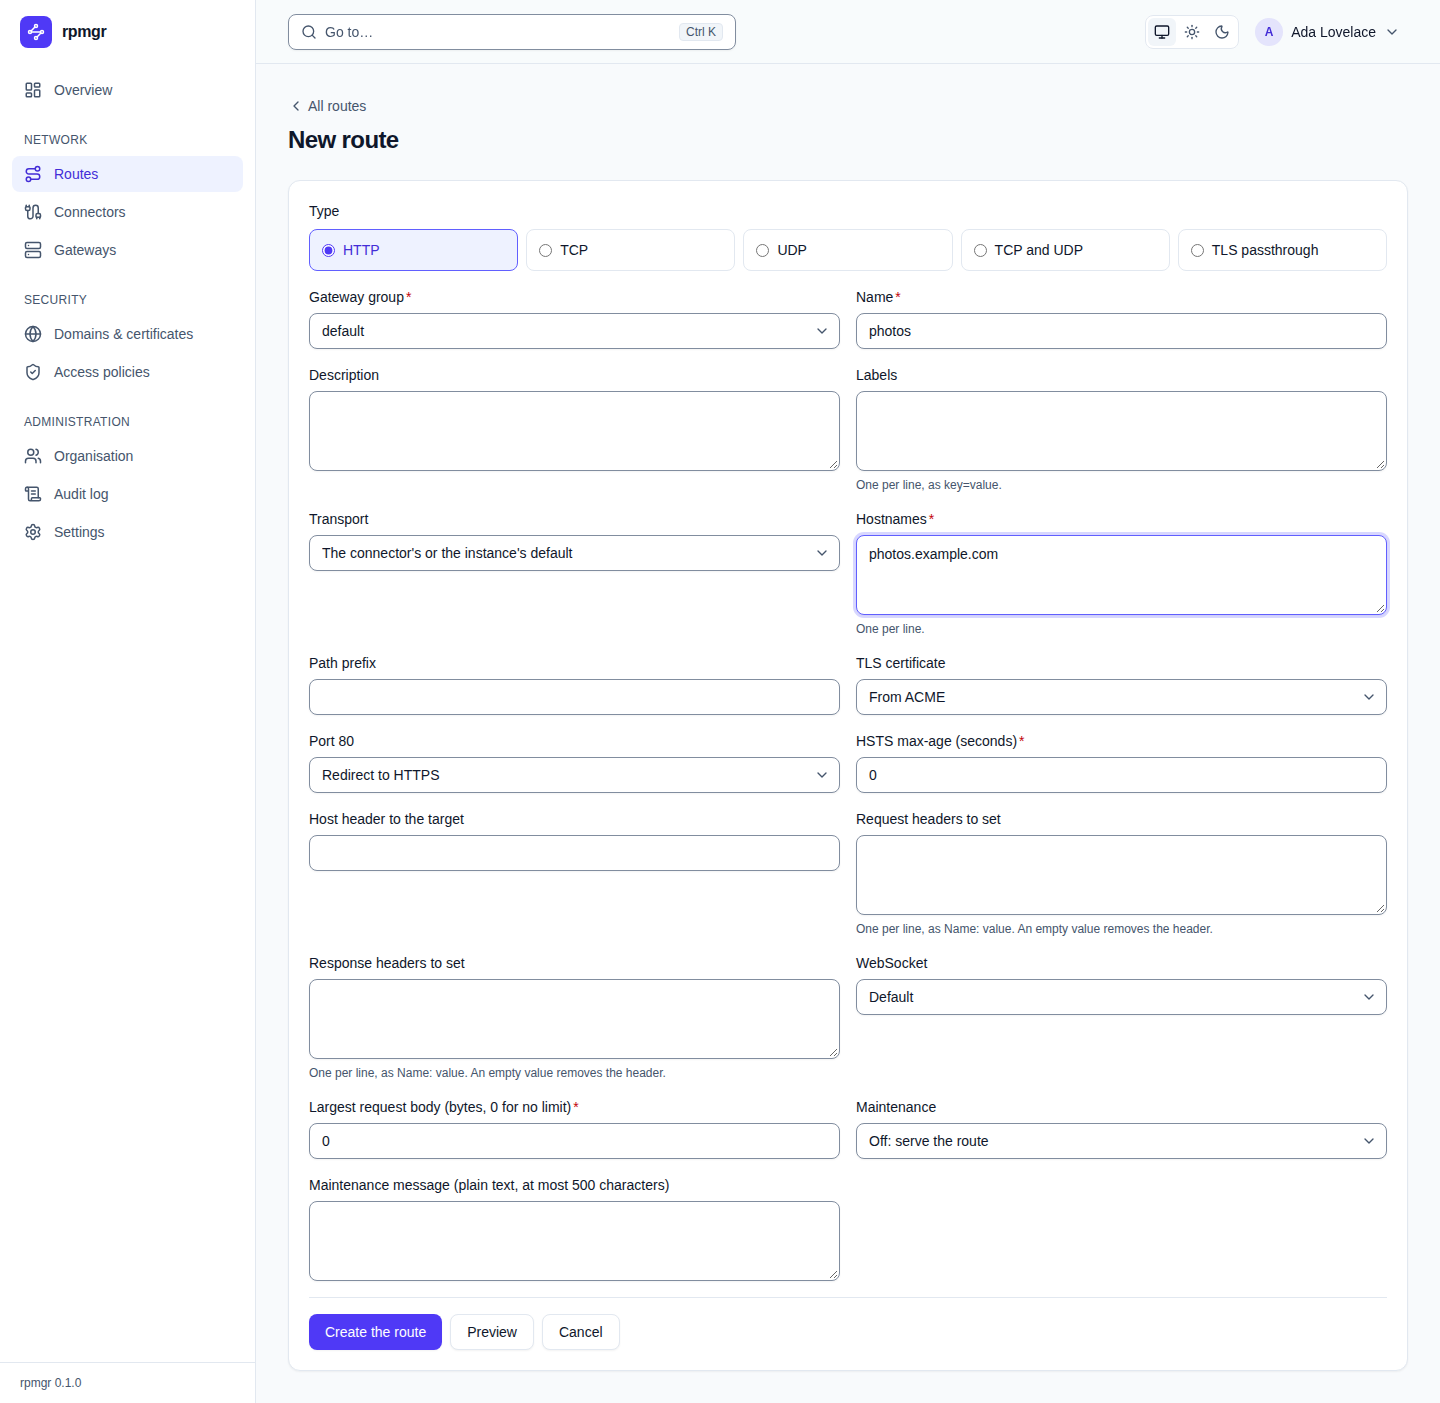
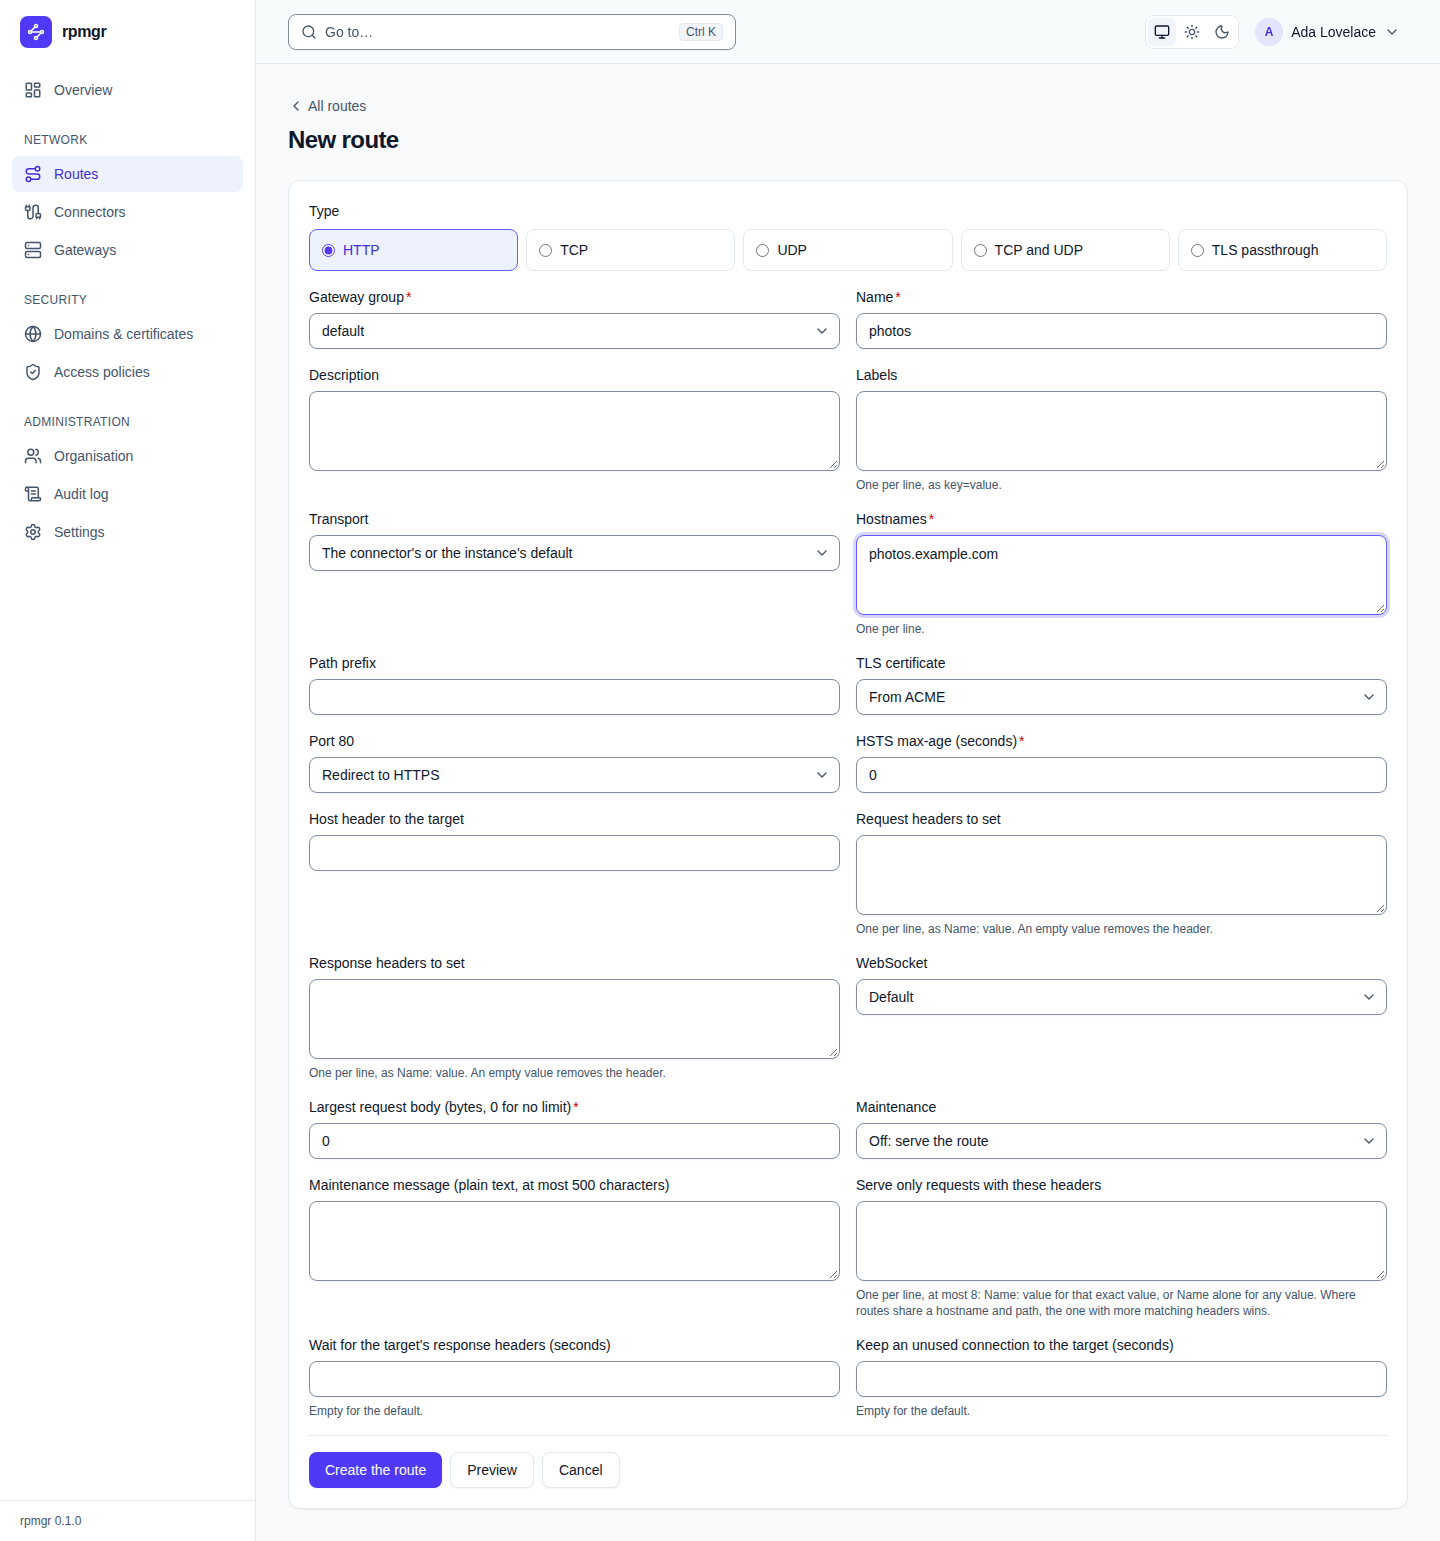
feat(web): edit header matches and timeouts of routes
Slice 3.13 of P2-M03, first part: the route form edits an http route's
header matches (3.3), one per line as `Name: value` or `Name` alone, and
its own upstream response-header and idle timeouts (3.4), empty for the
gateway's. The form checks each match line, their number and repeated
names before sending, protovalidate checks the timeouts' bounds, and
what the server refuses shows below the fields. The limits section
follows once slice 3.10's API has merged.

Refs #628

diff --git a/web/src/pages/route-edit.test.tsx b/web/src/pages/route-edit.test.tsx
@@ -30,7 +30,9 @@ const routes: Record<string, Route> = {
   http: create(RouteSchema, { ...common, spec: { case: "http", value: {
     hostnames: ["wiki.example.com", "w.example.com"], pathPrefix: "/docs", tlsMode: TLSMode.TLS_MODE_CERTIFICATE, certificateId: "crt_1",
     port80: Port80Mode.SERVE, hstsMaxAgeSeconds: 3600, hostHeader: "internal", requestHeadersSet: { "X-A": "1" },
-    responseHeadersSet: { "X-B": "a: b" }, websocket: false, maxBodyBytes: 1024n, maintenance: true, maintenanceMessage: "Back at 18:00.\nSorry." } } }),
+    responseHeadersSet: { "X-B": "a: b" }, websocket: false, maxBodyBytes: 1024n, maintenance: true, maintenanceMessage: "Back at 18:00.\nSorry.",
+    headerMatches: [{ name: "X-Env", match: { case: "exact", value: "beta" } }, { name: "X-Tenant", match: { case: "present", value: true } }],
+    upstreamResponseHeaderTimeoutSeconds: 300, upstreamIdleTimeoutSeconds: 30 } } }),
   tcp: create(RouteSchema, { ...common, spec: { case: "tcp", value: { port: 25432, idleTimeoutSeconds: 600 } } }),
   udp: create(RouteSchema, { ...common, spec: { case: "udp", value: { port: 53, flowIdleTimeoutSeconds: 30 } } }),
   tcpUdp: create(RouteSchema, { ...common, spec: { case: "tcpUdp", value: { port: 5353, idleTimeoutSeconds: 600, flowIdleTimeoutSeconds: 30 } } }),
@@ -123,6 +125,50 @@ describe("RouteEdit", () => {
     const spec = updates[0]!.route?.spec;
     expect(spec?.case === "tcpUdp" && [spec.value.port, spec.value.idleTimeoutSeconds, spec.value.flowIdleTimeoutSeconds]).toEqual([5354, 600, undefined]);
     expect(updates[0]!.updateMask?.paths).toEqual(expect.arrayContaining(["tcp_udp.port", "tcp_udp.flow_idle_timeout_seconds"]));
+  });
+
+  it("edits an http route's header matches and its own upstream timeouts", async () => {
+    const updates = edit(routes.http!);
+    const matches = await screen.findByLabelText("Serve only requests with these headers");
+    expect((matches as HTMLTextAreaElement).value).toBe("X-Env: beta\nX-Tenant");
+    expect((screen.getByLabelText("Wait for the target's response headers (seconds)") as HTMLInputElement).value).toBe("300");
+    fireEvent.change(matches, { target: { value: "x-canary: 1\n\n  X-Region  " } });
+    fireEvent.change(screen.getByLabelText("Wait for the target's response headers (seconds)"), { target: { value: "" } });
+    fireEvent.change(screen.getByLabelText("Keep an unused connection to the target (seconds)"), { target: { value: "3600" } });
+    save();
+    await waitFor(() => expect(updates).toHaveLength(1));
+    const spec = updates[0]!.route?.spec;
+    expect(spec?.case === "http" && [spec.value.headerMatches.map((m) => [m.name, m.match.case, m.match.value]),
+      spec.value.upstreamResponseHeaderTimeoutSeconds, spec.value.upstreamIdleTimeoutSeconds]).toEqual(
+      [[["x-canary", "exact", "1"], ["X-Region", "present", true]], 0, 3600]);
+    expect(updates[0]!.updateMask?.paths).toEqual(expect.arrayContaining(["http.header_matches",
+      "http.upstream_response_header_timeout_seconds", "http.upstream_idle_timeout_seconds"]));
+  });
+
+  it.each([
+    ["a match without a value", "Serve only requests with these headers", "X-Env:", "Line 1: give X-Env a value after the colon, or write the name alone to match any value."],
+    ["a match with a bad name", "Serve only requests with these headers", "X Env: a", "Line 1: “X Env” is not a header name. A name has letters, digits and the characters !#$%&'*+-.^_`|~ only."],
+    ["a header matched twice", "Serve only requests with these headers", "X-Env: a\nx-env", "Line 2: x-env is on line 1 already."],
+    ["nine matches", "Serve only requests with these headers", Array.from({ length: 9 }, (_, i) => `X-H${i}`).join("\n"), "A route matches at most 8 headers."],
+    ["a timeout that is no whole number", "Wait for the target's response headers (seconds)", "1.5", "Enter a whole number."],
+    ["a timeout above an hour", "Keep an unused connection to the target (seconds)", "3601", /less than or equal to 3600/],
+  ])("refuses %s before sending", async (_, label, value, message) => {
+    const updates = edit(routes.http!);
+    const field = await screen.findByLabelText(label);
+    fireEvent.change(field, { target: { value } });
+    save();
+    await waitFor(() => expect(field.getAttribute("aria-invalid")).toBe("true"));
+    expect(screen.getByText(message)).toBeTruthy();
+    expect(updates).toEqual([]);
+  });
+
+  it("shows what the server refuses in header matches", async () => {
+    edit(routes.http!, () => {
+      throw new ConnectError("headermatch: invalid header matches: header Host cannot be matched", Code.InvalidArgument);
+    });
+    fireEvent.change(await screen.findByLabelText("Serve only requests with these headers"), { target: { value: "Host: a.example.com" } });
+    save();
+    expect(await screen.findByText("headermatch: invalid header matches: header Host cannot be matched")).toBeTruthy();
   });
 
   it("checks the API's rules before sending", async () => {

diff --git a/web/src/route-form/fields.ts b/web/src/route-form/fields.ts
@@ -1,8 +1,8 @@
 // SPDX-License-Identifier: Apache-2.0
 
-import { clone } from "@bufbuild/protobuf";
+import { clone, create } from "@bufbuild/protobuf";
 import { DataTransport } from "@/gen/rpmgr/v1/connector_pb";
-import { Port80Mode, RouteSchema, TLSMode, type Route } from "@/gen/rpmgr/v1/route_pb";
+import { HeaderMatchSchema, Port80Mode, RouteSchema, TLSMode, type HeaderMatch, type Route } from "@/gen/rpmgr/v1/route_pb";
 
 // A field of the route form: its form key, the route path the API's update mask names
 // (internal/apisvc routeFields), how it is edited, and how it reads from and writes to a route.
@@ -22,15 +22,20 @@ export interface RouteField {
 // name is what a label key may be (route.proto) or a header name (a token of RFC 9110, which the
 // server checks too); a header's name is the same whatever its case.
 export interface PairFormat {
-  kind: "labels" | "headers";
+  kind: "labels" | "headers" | "matches";
   sep: string;
   shown: string;
   name: RegExp;
   folds: boolean;
+  bare?: boolean; // a line of a name alone is allowed: a header match by presence
+  max?: number; // the most lines
 }
 
 const labelFormat: PairFormat = { kind: "labels", sep: "=", shown: "=", name: /^[a-z0-9]([a-z0-9._-]{0,61}[a-z0-9])?$/, folds: false };
 const headerFormat: PairFormat = { kind: "headers", sep: ":", shown: ": ", name: /^[!#$%&'*+.^_`|~0-9A-Za-z-]+$/, folds: true };
+// A header match is Name: value for an exact value, or Name alone for presence (docs/03-connections.md,
+// "HTTP routes"); a route has at most 8.
+const matchFormat: PairFormat = { ...headerFormat, kind: "matches", bare: true, max: 8 };
 
 type Spec = Route["spec"];
 type SpecOf<C extends NonNullable<Spec["case"]>> = Extract<Spec, { case: C }>["value"];
@@ -60,6 +65,17 @@ function spec<C extends NonNullable<Spec["case"]>>(c: C, field: Omit<RouteField,
     },
   };
 }
+
+// matchesOf reads the lines of header matches; showMatches writes them, one per line.
+const matchesOf = (v: string): HeaderMatch[] =>
+  lines(v).map((l) => {
+    const pair = split(l, matchFormat);
+    return create(HeaderMatchSchema, pair === undefined
+      ? { name: l, match: { case: "present", value: true } }
+      : { name: pair[0], match: { case: "exact", value: pair[1] } });
+  });
+const showMatches = (ms: HeaderMatch[]) =>
+  ms.map((m) => (m.match.case === "exact" ? `${m.name}${matchFormat.shown}${m.match.value}` : m.name)).join("\n");
 
 const num = (v: string) => (/^\d+$/.test(v.trim()) ? Number(v.trim()) : Number.NaN);
 const optional = (v: string) => (v.trim() === "" ? undefined : num(v));
@@ -104,6 +120,15 @@ const http: RouteField[] = [
     get: (s) => String(s.maintenance), set: (s, v) => (s.maintenance = v === "true") }),
   spec("http", { key: "maintenanceMessage", path: "http.maintenance_message", kind: "longtext", get: (s) => s.maintenanceMessage,
     set: (s, v) => (s.maintenanceMessage = v) }),
+  // Header matches and the route's own upstream timeouts (Phase 2); empty is none, or the gateway's.
+  spec("http", { key: "headerMatches", path: "http.header_matches", kind: "pairs", format: matchFormat,
+    get: (s) => showMatches(s.headerMatches), set: (s, v) => (s.headerMatches = matchesOf(v)) }),
+  spec("http", { key: "upstreamHeaderTimeout", path: "http.upstream_response_header_timeout_seconds", kind: "optionalNumber",
+    get: (s) => (s.upstreamResponseHeaderTimeoutSeconds === 0 ? "" : String(s.upstreamResponseHeaderTimeoutSeconds)),
+    set: (s, v) => (s.upstreamResponseHeaderTimeoutSeconds = optional(v) ?? 0) }),
+  spec("http", { key: "upstreamIdleTimeout", path: "http.upstream_idle_timeout_seconds", kind: "optionalNumber",
+    get: (s) => (s.upstreamIdleTimeoutSeconds === 0 ? "" : String(s.upstreamIdleTimeoutSeconds)),
+    set: (s, v) => (s.upstreamIdleTimeoutSeconds = optional(v) ?? 0) }),
 ];
 
 const portField = <C extends "tcp" | "udp" | "tcpUdp">(c: C, path: string) =>
@@ -166,16 +191,22 @@ export interface Problem {
 export function lineProblem(v: string, f: PairFormat): Problem | undefined {
   const seen = new Map<string, number>();
   const all = v.split("\n");
+  if (f.max !== undefined && lines(v).length > f.max) {
+    return { text: `lines.${f.kind}.max`, values: { max: f.max } };
+  }
   for (let i = 0; i < all.length; i++) {
     const text = all[i]!.trim();
     if (text === "") {
       continue;
     }
-    const line = i + 1, pair = split(text, f);
+    const line = i + 1, pair = split(text, f) ?? (f.bare ? [text, undefined] : undefined);
     if (pair === undefined) {
       return { text: `lines.${f.kind}.separator`, values: { line } };
     }
-    const [name] = pair;
+    const [name, value] = pair;
+    if (f.bare && value === "") {
+      return { text: `lines.${f.kind}.value`, values: { line, name } };
+    }
     if (!f.name.test(name)) {
       return { text: `lines.${f.kind}.name`, values: { line, name } };
     }

diff --git a/web/e2e/sign-in.spec.ts b/web/e2e/sign-in.spec.ts
@@ -158,6 +158,15 @@ test("signs in, creates an API token with a step-up, sets up an authenticator an
   await page.goto("/routes/new");
   await expect(page.locator(".required-mark")).toHaveText(["Gateway group", "Name", "Hostnames", "HSTS max-age (seconds)", "Largest request body (bytes, 0 for no limit)"]);
   expect(await unmarked(page)).toEqual([]);
+  // Header matches and the route's own timeouts: a line not in its format is refused in the form,
+  // on its field, before anything is sent, and the form with its errors stays accessible.
+  await page.getByLabel("Serve only requests with these headers").fill("X-Env: beta\nX Env: a");
+  await page.getByLabel("Wait for the target's response headers (seconds)").fill("300");
+  await page.getByRole("button", { name: "Create the route" }).click();
+  await expect(page.getByText("Line 2: “X Env” is not a header name.", { exact: false })).toBeVisible();
+  await expect(page.getByLabel("Serve only requests with these headers")).toHaveAttribute("aria-invalid", "true");
+  await expectAccessible(page);
+  await page.goto("/routes/new");
   const top = async (label: string) => (await page.getByLabel(label, { exact: true }).boundingBox())!.y;
   expect(await top("Name")).toBe(await top("Gateway group"));
   await page.setViewportSize({ width: 390, height: desktop.height });

diff --git a/docs/guide/routes/http.md b/docs/guide/routes/http.md
@@ -116,7 +116,7 @@ type and its gateway group never change.
 | Data-session transport | **Transport** | `--transport auto\|quic\|h2` | the connector's |
 | Hostnames, 1 to 100 | **Hostnames**, one per line | `--hostname`, repeated | required |
 | Path prefix | **Path prefix** | `--path-prefix` | every path |
-| Header matches | not in the web UI yet | `--match-header Name=value` or `--match-header Name`, repeated | none |
+| Header matches | **Serve only requests with these headers**, `Name: value` or `Name` per line | `--match-header Name=value` or `--match-header Name`, repeated | none |
 | Certificate source | **TLS certificate**: **From ACME** or **Uploaded** | `--tls-mode acme\|certificate` | ACME |
 | Uploaded certificate | **Uploaded certificate**, one that covers every hostname | `--certificate <id>` | none |
 | Port 80 | **Port 80**: **Redirect to HTTPS**, **Serve the route**, **Closed** | `--port80 redirect\|serve\|off` | redirect |
@@ -126,8 +126,8 @@ type and its gateway group never change.
 | Response headers to set | **Response headers to set**, `Name: value` per line | `--set-response-header Name=value`, repeated | none |
 | WebSocket upgrades | **WebSocket**: **Default**, **On**, **Off** | `--websocket=false` | on |
 | Largest request body | **Largest request body (bytes, 0 for no limit)** | `--max-body <bytes>` | 0, no limit |
-| Wait for the target's response headers | not in the web UI yet | `--upstream-header-timeout <duration>`, such as `5m` | the gateway's |
-| Keep an unused connection to the target | not in the web UI yet | `--upstream-idle-timeout <duration>` | the gateway's |
+| Wait for the target's response headers | **Wait for the target's response headers (seconds)** | `--upstream-header-timeout <duration>`, such as `5m` | the gateway's |
+| Keep an unused connection to the target | **Keep an unused connection to the target (seconds)** | `--upstream-idle-timeout <duration>` | the gateway's |
 | Maintenance | **Maintenance** | `--maintenance`, `--maintenance=false` | off |
 | Maintenance message | **Maintenance message** | `--maintenance-message` | empty |
 | Access policies | **Access policies** card on the route's page | `--policy`, repeated | none |

diff --git a/docs/guide/web-ui/routes.md b/docs/guide/web-ui/routes.md
@@ -81,11 +81,16 @@ An **HTTP** route adds ([HTTP routes](../routes/http.md)):
 | **Largest request body (bytes, 0 for no limit)** | The largest request body the gateway lets through |
 | **Maintenance** | **Off: serve the route** or **On: show the maintenance page** ([D88](../../14-open-decisions.md#engineering)) |
 | **Maintenance message (plain text, at most 500 characters)** | The text the maintenance page shows |
+| **Serve only requests with these headers** | Header matches, one per line: `Name: value` for that exact value, or `Name` alone for any value. Where routes share a hostname and path prefix, the one with more matching headers wins ([Header matches](../routes/http.md#header-matches)). Empty matches every request |
+| **Wait for the target's response headers (seconds)**, **Keep an unused connection to the target (seconds)** | The route's own upstream timeouts; empty keeps the gateway's ([Timeouts](../routes/http.md#timeouts)) |
 
-Before it sends a route, the form checks each line of **Labels**, **Request headers to set** and
-**Response headers to set**. It names the first line without `=` or `:`, with a label key or header
-name the API refuses, or with a key or name an earlier line has, such as `Line 2: write a label as
-key=value.`; a header name is the same whatever its case.
+Before it sends a route, the form checks each line of **Labels**, **Request headers to set**,
+**Response headers to set** and **Serve only requests with these headers**. It names the first line
+without `=` or `:`, with a label key or header name the API refuses, with a header match whose
+colon has no value after it, or with a key or name an earlier line has, such as `Line 2: write a
+label as key=value.`; a header name is the same whatever its case. It also says when there are more
+header matches than a route may have, and refuses a timeout above the API's bound. What the server
+refuses, such as a match on `Host`, shows below the fields.
 
 A **TCP** route adds **Public port** and **Idle timeout (seconds)**; a **UDP** route **Public
 port** and **Flow idle timeout (seconds)**; a **TCP and UDP** route **Public port**, **TCP idle

diff --git a/docs/09-web-ui.md b/docs/09-web-ui.md
@@ -352,11 +352,13 @@ flowchart LR
     hostname the form has, by its names, ID and expiry; the form stores its ID. The choice shows
     only while the route uses an uploaded certificate. A certificate chosen before stays offered,
     marked if it does not cover the hostnames, so the form never changes it unasked.
-  - **Phase 2 sections** ([03](03-connections.md#http-routes)), each folded until used:
-    - **Header matches** (http): up to eight rows of a header name with "equals" and a value, or
-      "is present"; a hint explains that more matches win and that the route created first wins
-      a tie, which preview reports.
-    - **Timeouts** (http): upstream response header and upstream idle, empty for the gateway's.
+  - **Phase 2 fields** ([03](03-connections.md#http-routes)), after the others:
+    - **Header matches** (http): one per line, `Name: value` for an exact value or `Name` alone
+      for presence; a hint explains that more matches win. The form checks each line, the
+      number of lines and repeated names before sending; what the server refuses shows below the
+      fields.
+    - **Timeouts** (http): upstream response header and upstream idle, in seconds, empty for the
+      gateway's.
     - **Limits** (every type): connections, request rate and bandwidth for the route as a whole,
       with a hint that the group's enabled gateways share them.
     - **Health check** (every type): TCP or HTTP, port, path, expected status, interval, timeout

diff --git a/CHANGELOG.md b/CHANGELOG.md
@@ -30,13 +30,13 @@ Changes to the design documents are not recorded here: see the git history and t
 - Routes: an http route can match on request headers, an exact value or presence alone, so that
   routes share a hostname and path prefix and a header such as `X-Env: beta` chooses between them;
   the route with more matching headers wins, the one created first a tie. Set with
-  `rpmgr create route`/`update route --match-header`, the API's `header_matches` and manifests; the
-  web UI follows. Gateways of earlier releases never get such a route. (#617, #618)
+  `rpmgr create route`/`update route --match-header`, the API's `header_matches`, manifests and the
+  web UI's route form. Gateways of earlier releases never get such a route. (#617, #618, #628)
 
 - Routes: an http route can set its own upstream response-header timeout, after which a request
   gets 504, and its own idle timeout for unused connections to its targets; 0 keeps the gateway's.
-  Set with `--upstream-header-timeout` and `--upstream-idle-timeout`, the API and manifests; the
-  web UI follows. Gateways of earlier releases keep their own values. (#619)
+  Set with `--upstream-header-timeout` and `--upstream-idle-timeout`, the API, manifests and the
+  web UI's route form. Gateways of earlier releases keep their own values. (#619, #628)
 
 ### Changed
 
